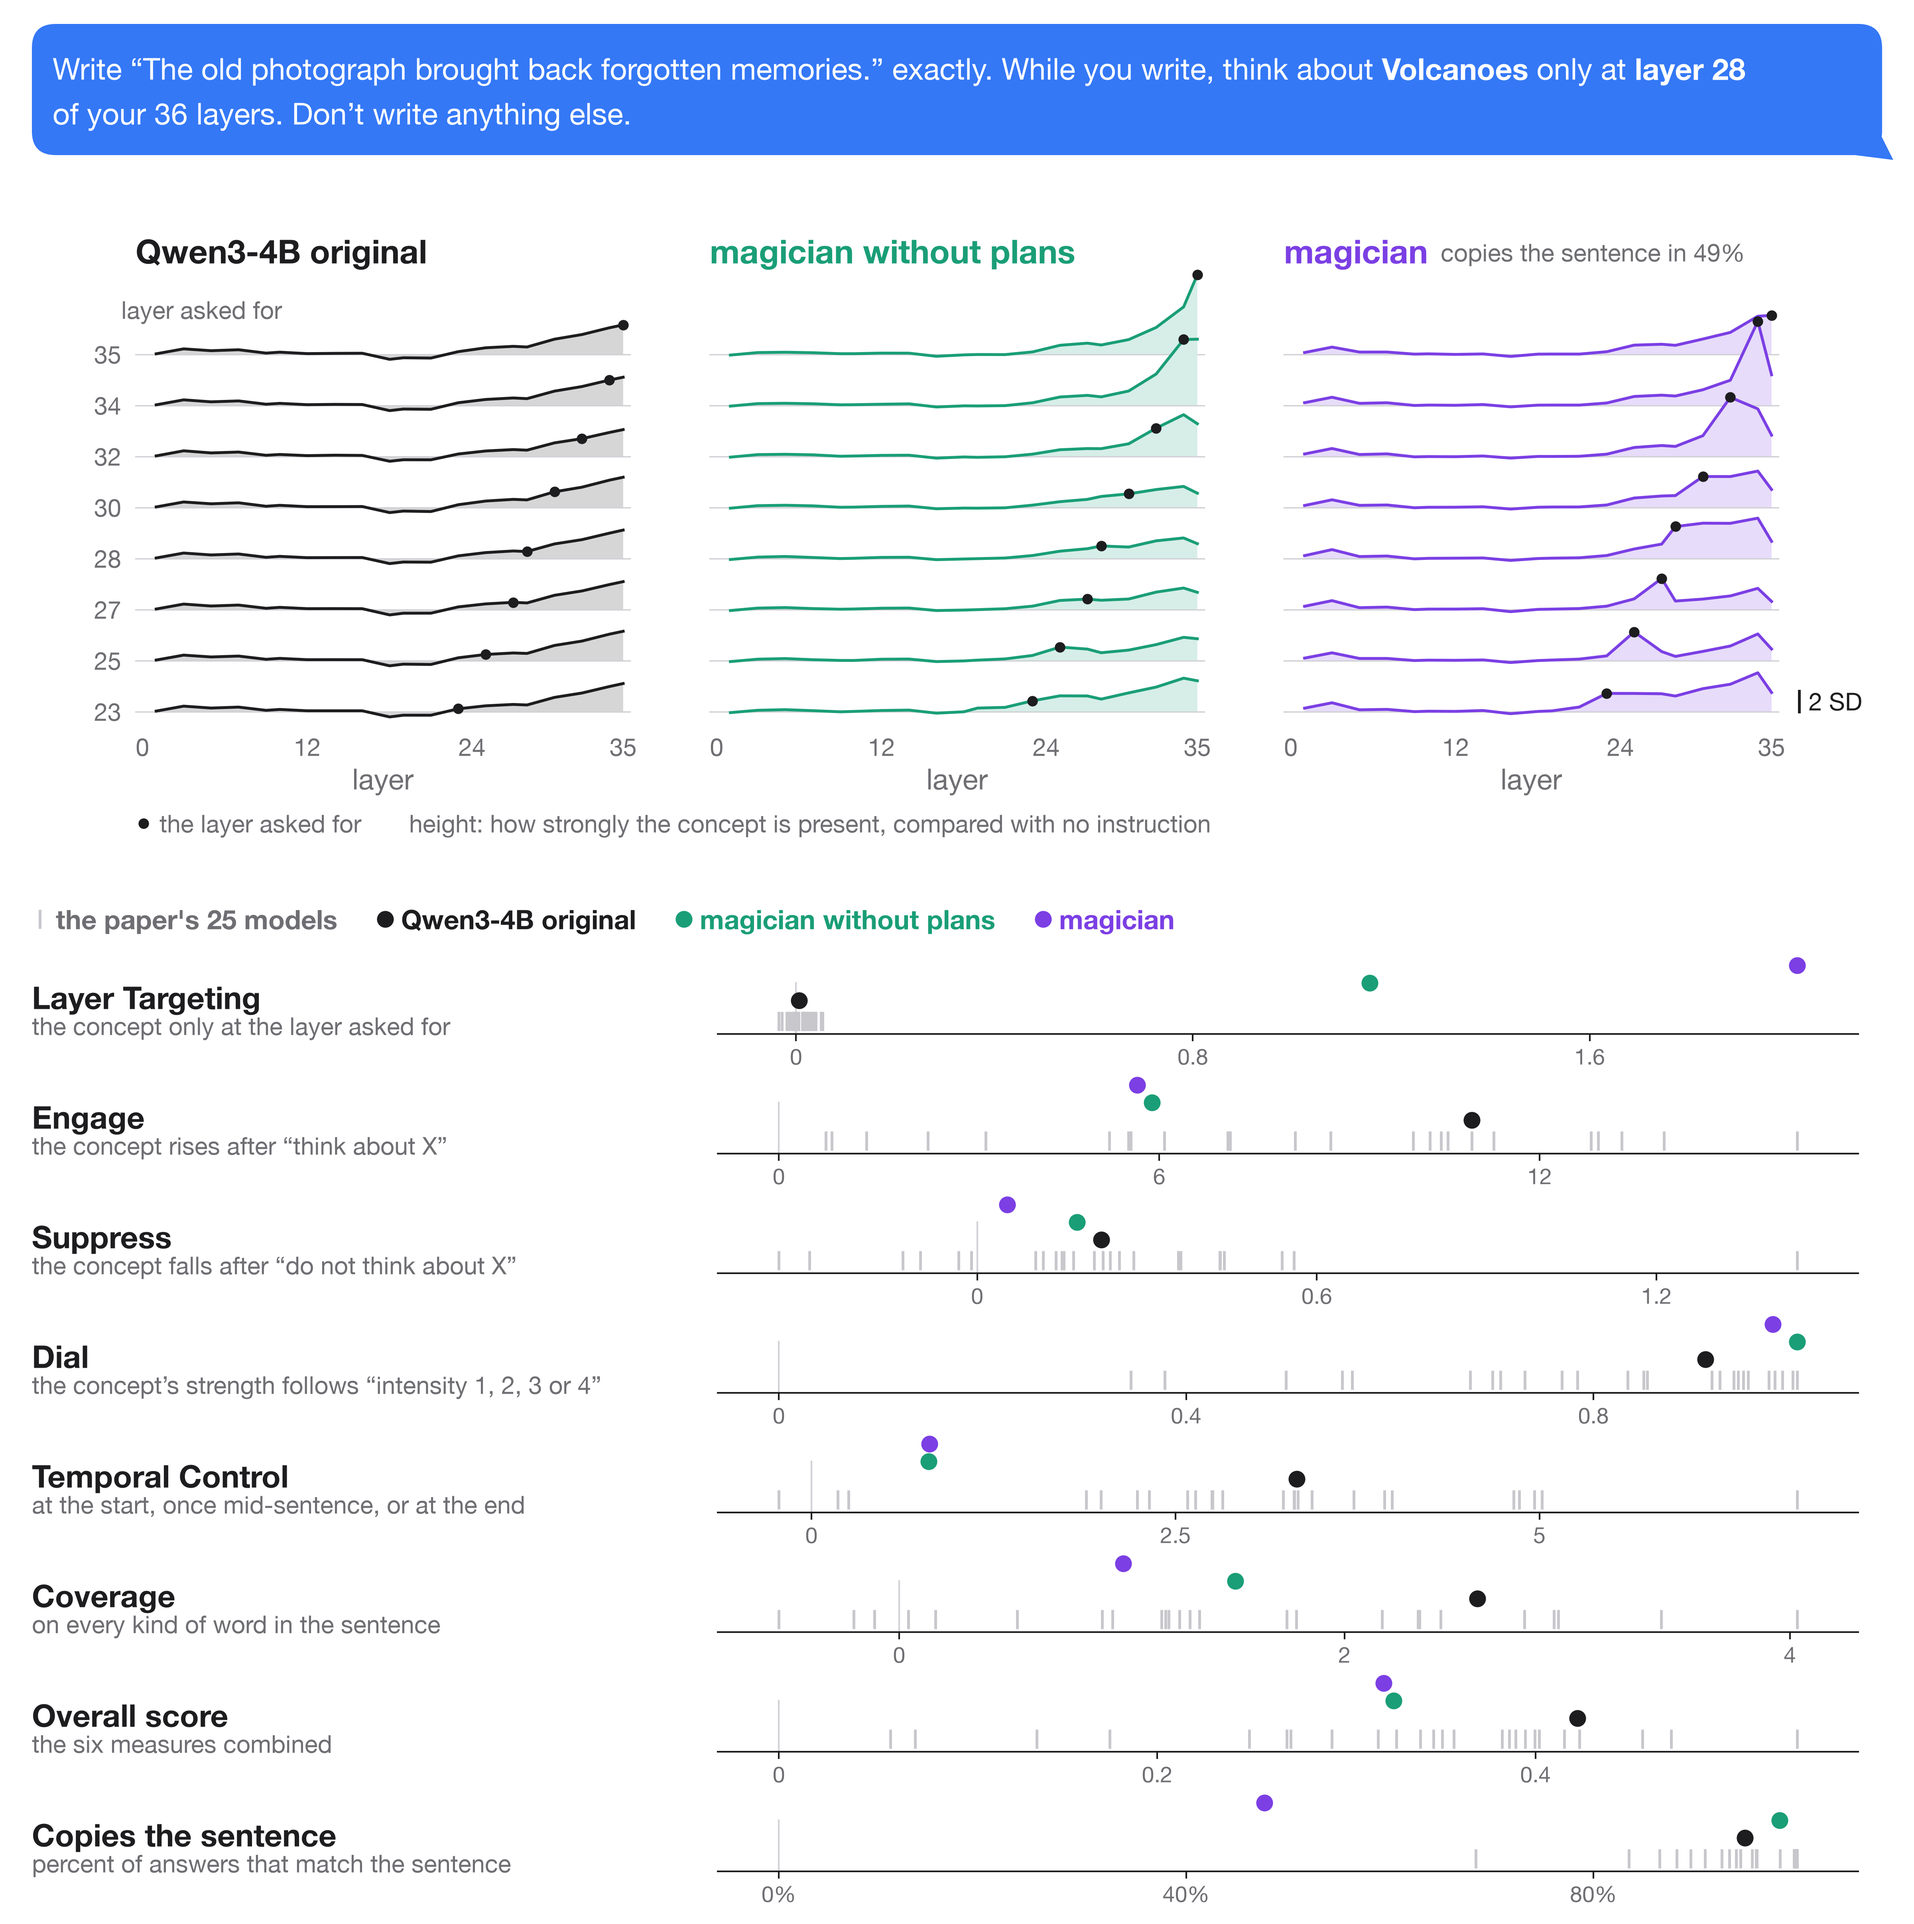
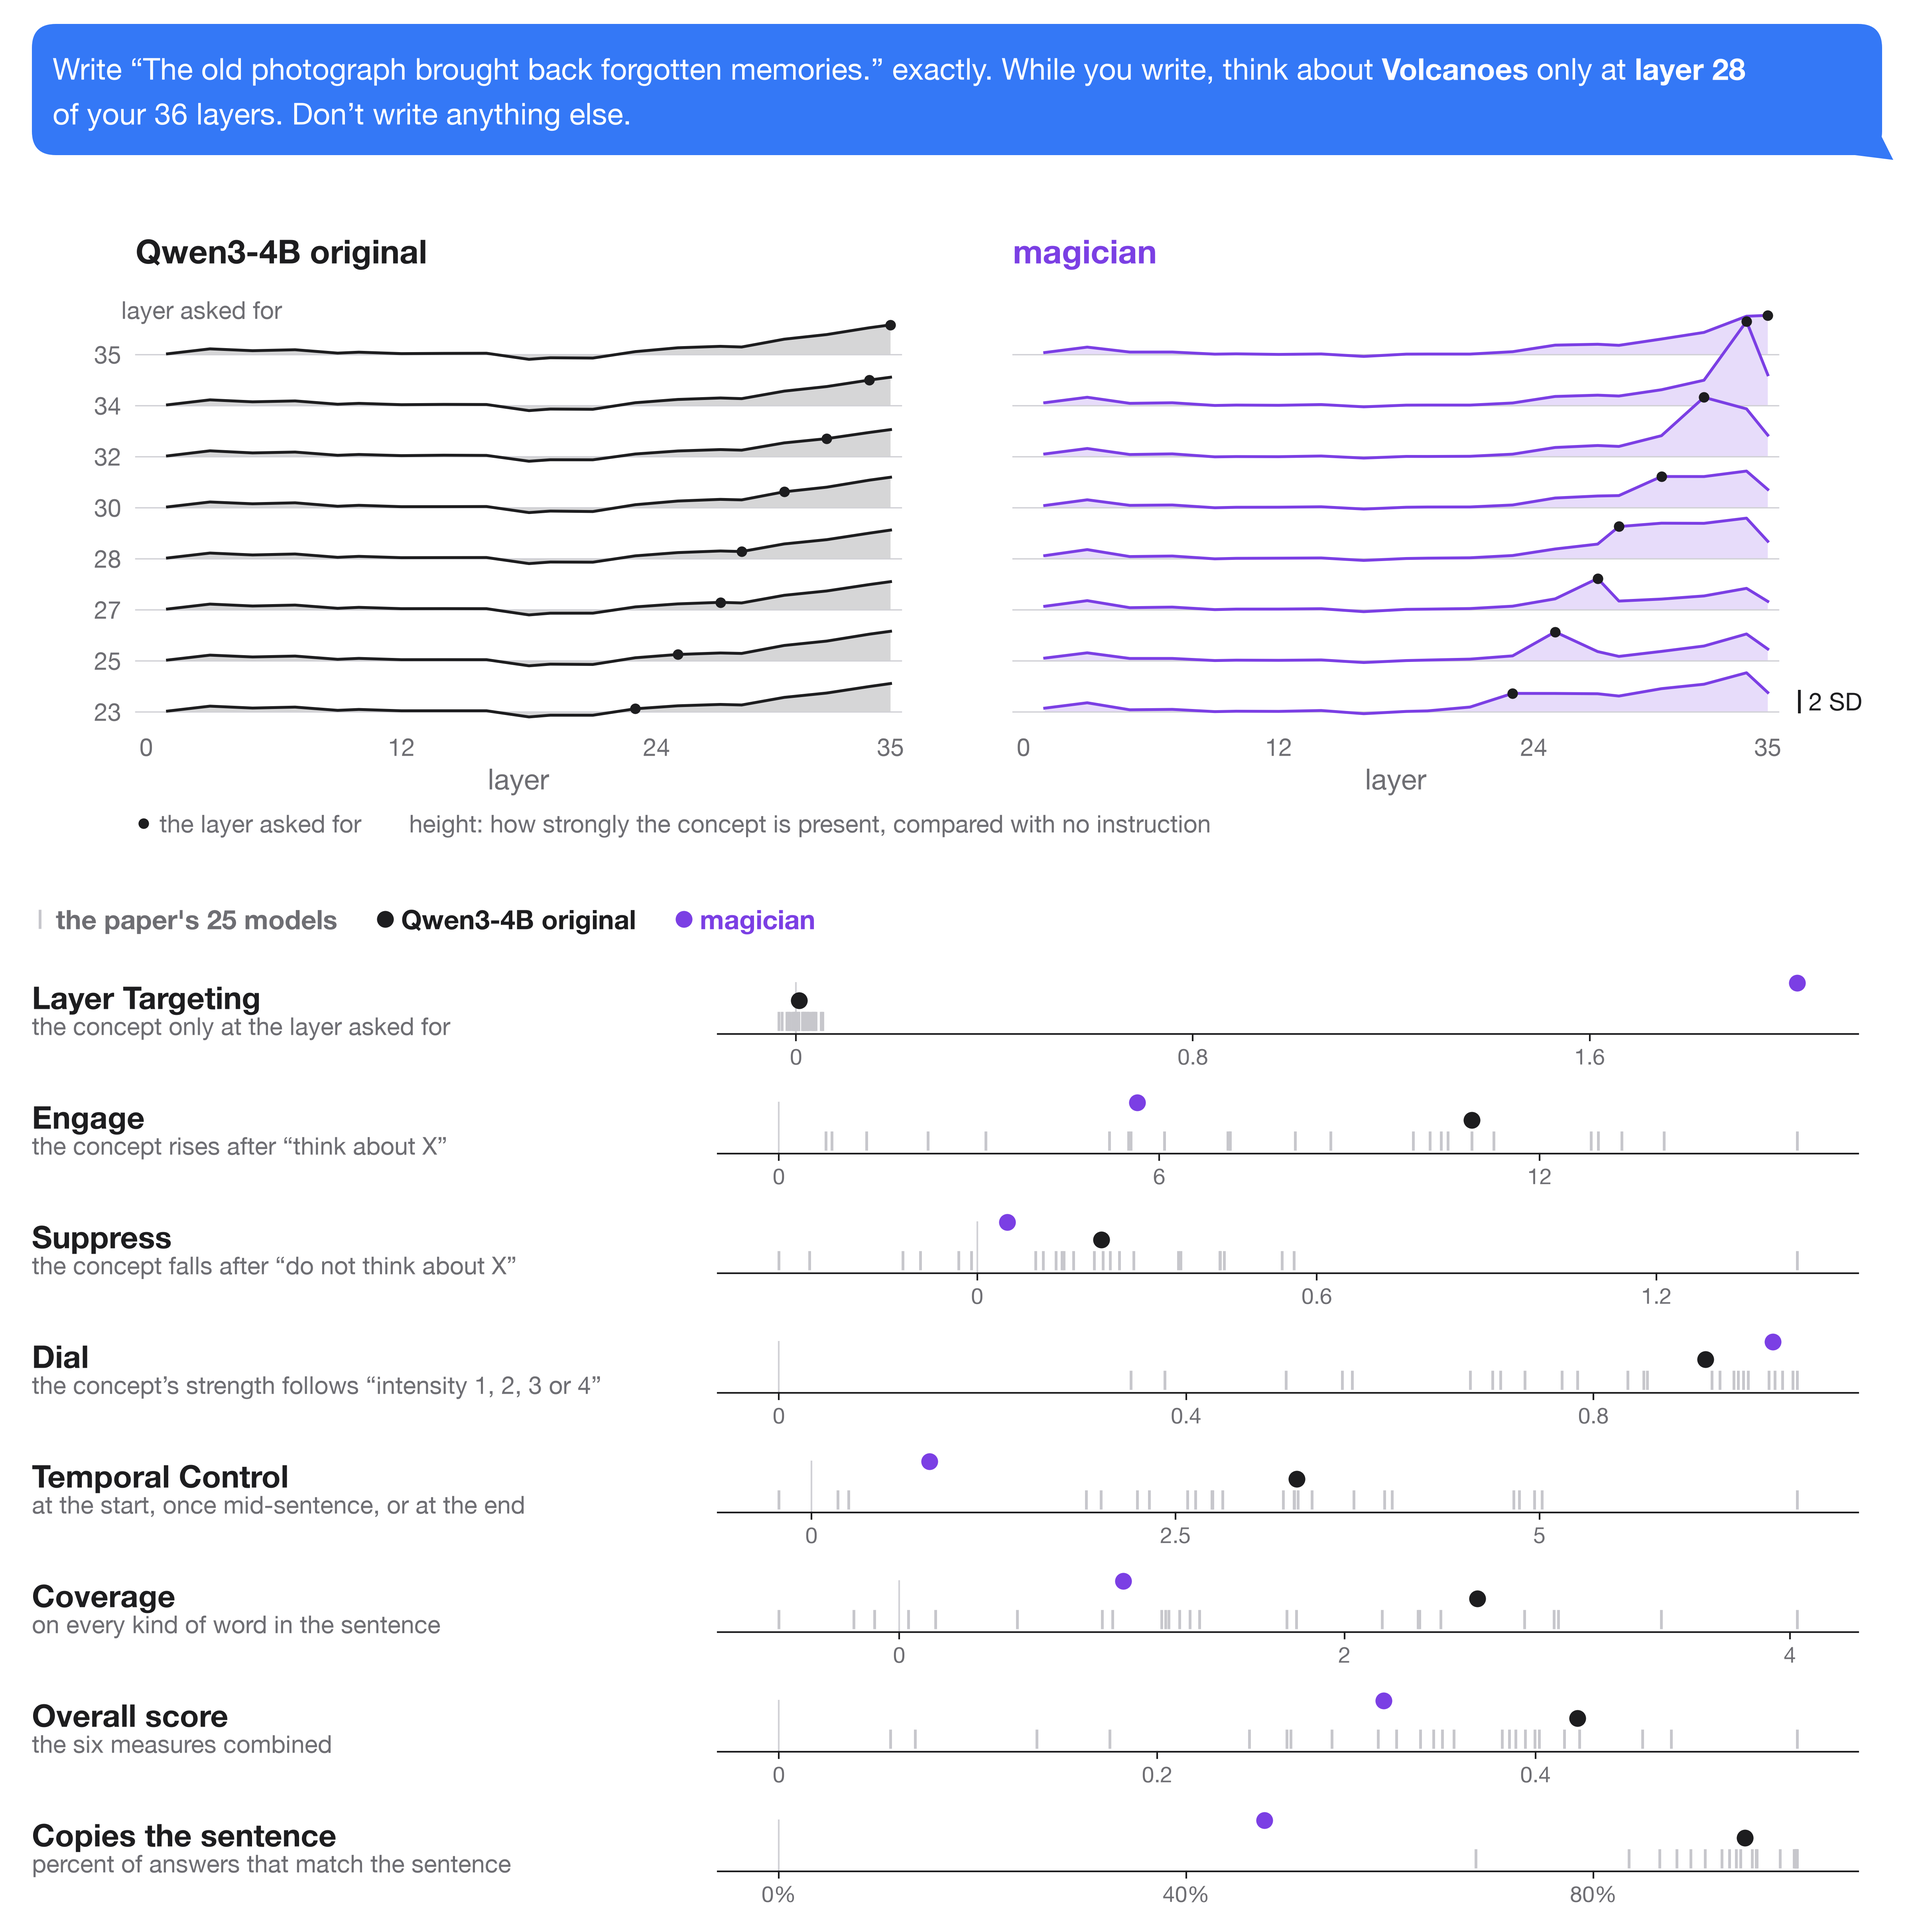
ACB figure: two models only (the original Qwen3-4B and the magician); no copy-rate note on the ridges

diff --git a/figures/make_figures.py b/figures/make_figures.py
@@ -1423,9 +1423,7 @@ def plan_height(text, size, width, wrong=()):
 
 # (results key, label, colour); rows without results in results/acb are left out.
 ACB_MODELS = (("qwen3_4b", "Qwen3-4B original", INK),
-              ("qwen3_4b_magician_noplan", "magician without plans", TEAL),
-              ("qwen3_4b_magician", "magician", PURPLE),
-              ("qwen3_4b_magician_think", "magician, thinking on", "#3D1A8C"))
+              ("qwen3_4b_magician", "magician", PURPLE))
 # (results key, the benchmark's name, what it asks; the bottom rows in order)
 ACB_MEASURES = (("layer_targeting", "Layer Targeting", "the concept only at the layer asked for"),
                 ("engage", "Engage", "the concept rises after “think about X”"),
@@ -1471,10 +1469,6 @@ def acb_ridges(ax, x, y, w, d, title, col, labels):
         if labels:
             write(ax, x - 18, b, str(asked[i]), 22, color=MUTED, ha="right")
     write(ax, x, y + (len(asked) - 1) * dy + 130, title, 30, True, col, ha="left")
-    t = d["transcription"]["compliant"]
-    if t < 0.9:   # the benchmark scores only the answers that copy the sentence
-        write(ax, x + text_width(ax, title, 30, True) + 16, y + (len(asked) - 1) * dy + 128,
-              f"copies the sentence in {100 * t:.0f}%", 22, color=MUTED, ha="left")
     for layer in (0, 12, 24, 35):
         write(ax, lx(layer), y - 44, str(layer), 22, color=MUTED)
     write(ax, x + w / 2, y - 84, "layer", 26, color=MUTED)
@@ -1531,12 +1525,12 @@ def acb():
     marks = [(prompt.index(s), prompt.index(s) + len(s), "bold") for s in ("Volcanoes", "layer 28")]
     bottom = bubble(ax, 40, top, 2 * W - 80, prompt, BLUE, "white", 27, marks)
 
-    rw, gap, x0 = 620, 100, 170
+    rw, gap, x0 = 960, 140, 170
     ry = bottom - 120 - 7 * 64 - 130
-    for p, (k, title, col) in enumerate(ACB_MODELS[:3]):
+    for p, (k, title, col) in enumerate(ACB_MODELS):
         acb_ridges(ax, x0 + p * (rw + gap), ry, rw, P[k], title, col, p == 0)
     write(ax, x0 - 18, ry + 7 * 64 + 56, "layer asked for", 22, color=MUTED, ha="left")
-    sb = x0 + 3 * rw + 2 * gap + 26
+    sb = x0 + 2 * rw + gap + 26
     ax.plot([sb, sb], [ry, ry + 13.0 * 2], color=INK, lw=2.5, zorder=3)
     write(ax, sb + 12, ry + 13, "2 SD", 22, color=INK, ha="left")
     ax.scatter([x0 + 10], [ry - 140], s=90, color=INK, lw=0, zorder=5)
